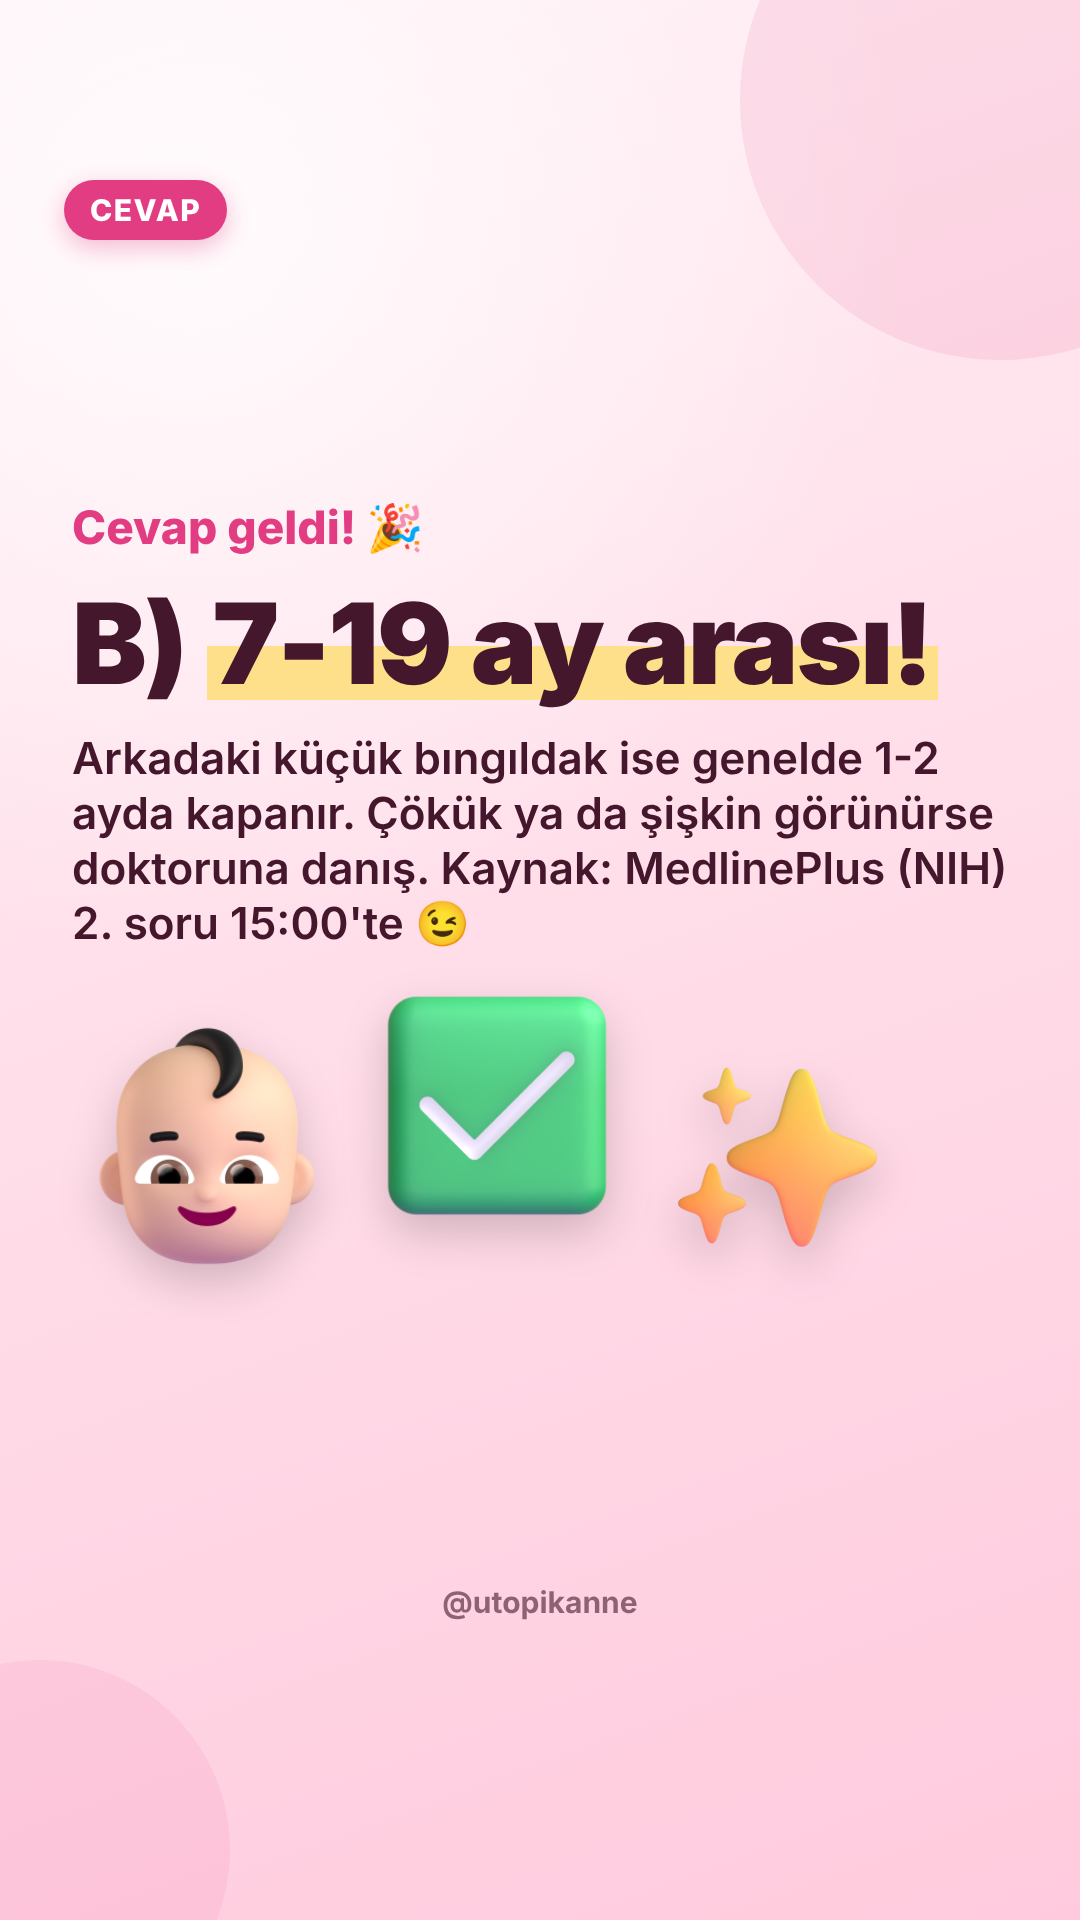
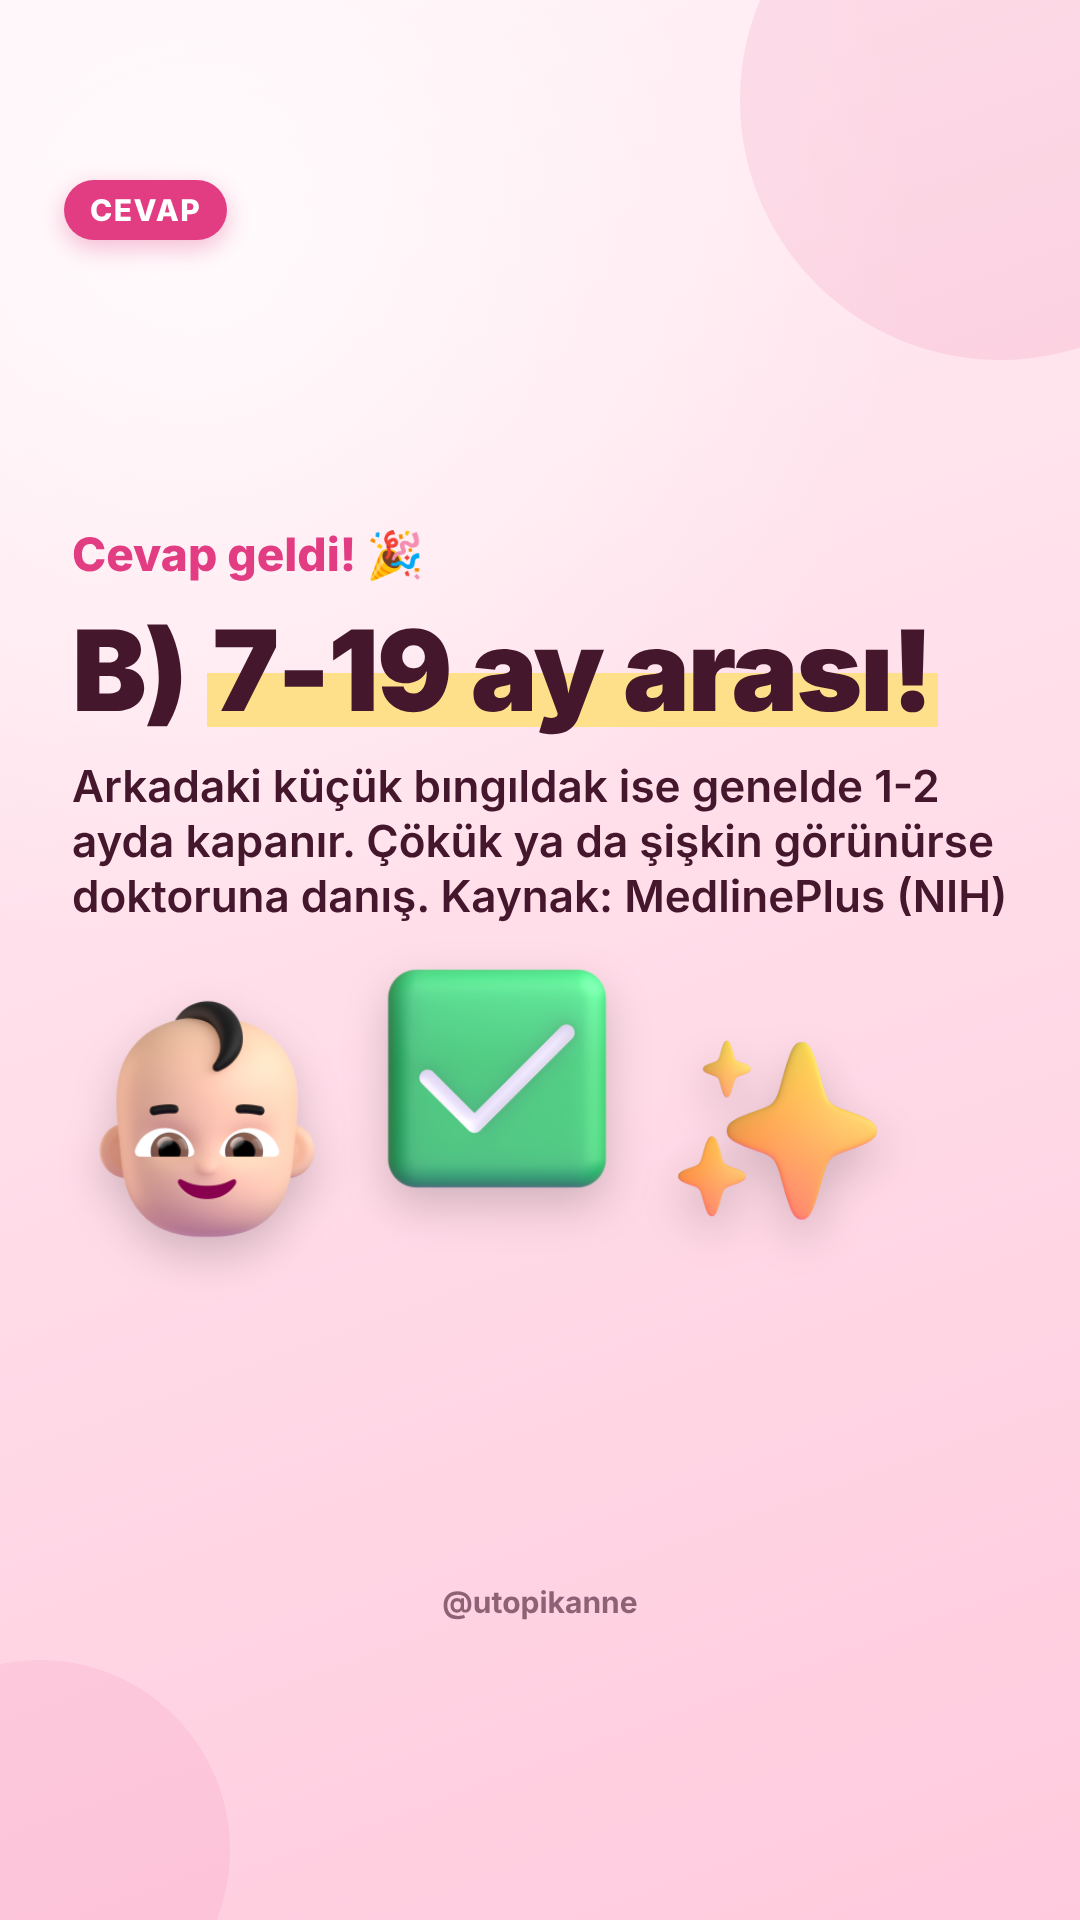
utopikanne: story'lerde saat yazılmaz
Claude-Session: https://claude.ai/code/session_01QGX4XsF2fmNtuvzmoWMg9N

Changed region(s): [[0.0611, 0.25, 0.9472, 0.6562], [0.6111, 0.5312, 0.825, 0.6562]]

diff --git a/hesaplar/utopikanne/strateji.md b/hesaplar/utopikanne/strateji.md
@@ -10,6 +10,7 @@
 4b. TASARIM (15 Kasım 14:29): şık olacak olan şık-sade, renkli olacak olan renkli; anlamı renk, yazı stili ya da küçük destek görseliyle geçir. Kalite > sayı.
 5. Ton: güzel anne / genç kadın profili, mizah, annelik; Melike'nin ağzından, sözler özgün.
 5d. (16 Kasım 14:22) Melike soru story'sine Anket (A/B/C) ekliyor: soru görsellerinde alt bölümü ANKET İÇİN BOŞ bırak — ikonlar en fazla 1 tane, küçük, sağ üst köşede ("ikonlar":[] ya da tek ikon), cevap_notu'ndan sonra boşluk.
+5e. (16 Kasım 16:12) Cevap ve soru story'lerinde HİÇBİR SAAT YAZMA ("2. soru 15:00'te", "Yarın 10:00'da" yok). Melike elle, istediği saatte paylaşıyor.
 5c. (16 Kasım) Soru görsellerinde "Cevap 2 dakika sonra" YAZMA → "Cevap bir sonraki hikâyede 👉" (Melike elle paylaşıyor). Yer adlarında ülke/şehir yaz ("Glasgow (İskoçya)"); herkesin bilmediği yer, kişi, kurum kısa açıklamayla. Günde 3 soru-cevap çifti (öğle, ikindi, akşam). ÖNE ÇIKANLAR boş kalmasın: 3 soru farklı öne çıkan konularından (Temizlik, Bebek, Hamilelik, Tarifler/Ek Gıda) dönüşümlü; her gün en az 1 Hamilelik, haftada en az 3 Temizlik. OKU.txt'de her soru-cevabın yanına hangi öne çıkana ekleneceğini yaz ("→ Öne çıkan: Temizlik").
 5b. (15 Kasım 23:40 GERİ ALINDI) Melike'nin Instagram'ında Test çıkartması yok. Eski, beğenilen düzen sürer: soru görselinde A/B/C şıklar YAZILI + ayrı cevap story'si (6 story). Çıkartma zorunlu değil; isterse 'Anket' ile A/B/C ekler.
 6. Her teslim klasörüne OKU.txt: hangi görsel hangi saate, kısa açıklama önerisi.
